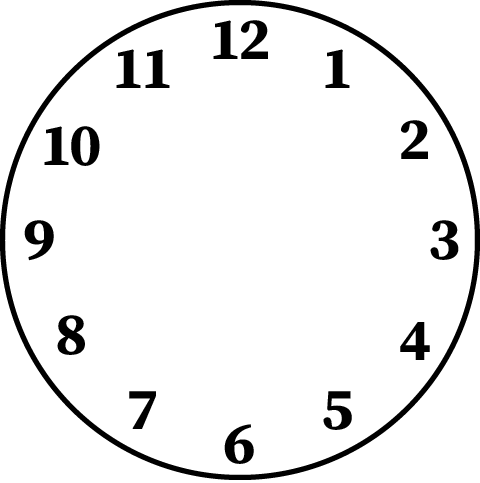
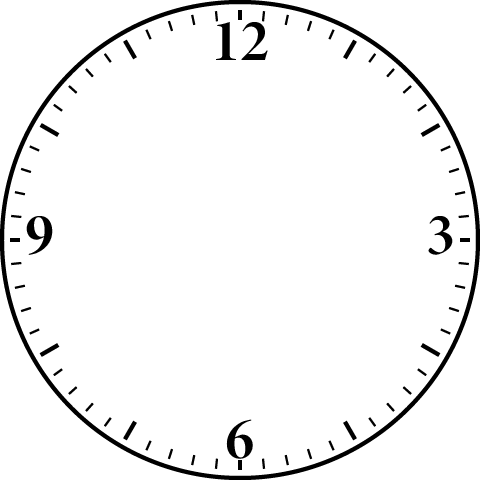
秒針と分針まで

diff --git a/index.html b/index.html
@@ -14,13 +14,24 @@
             <span id="now"></span>
         </h1>
         <div id="plate">
-            <div id="hour">
-                <figure>
-                    <img src="images/short.png" alt="">
-                </figure>
-            </div>
-            <div id="minute"><img src="images/long.png" alt="分"></div>
-            <div id="second"></div>
+            <figure id="hour">
+                <picture>
+                    <source srcset="images/short@2x.webp" type="image/webp">
+                    <img src="images/short.png" srcset="images/short.png 1x,images/short@2x.png 2x" alt="" width="480" height="480">
+                </picture>
+            </figure>
+            <figure id="minute">
+                <picture>
+                    <source srcset="images/long@2x.webp" type="image/webp">
+                    <img src="images/long.png" srcset="images/long.png 1x,images/long@2x.png 2x" alt="" width="480" height="480">
+                </picture>
+            </figure>
+            <figure id="second">
+                <picture>
+                    <source srcset="images/sec@2x.webp" type="image/webp">
+                    <img src="images/sec.png" srcset="images/sec.png 1x,images/sec@2x.png 2x" alt="" width="480" height="480">
+                </picture>
+            </figure>
         </div>
     </div>
     <script>
@@ -28,31 +39,26 @@
         const hour = document.querySelector('#hour');
         const minute = document.querySelector('#minute');
         const second = document.querySelector('#second');
+        const rotate = 360 / 60;
         const time = () => {
             const now = new Date();
-            const hours = now.getHours();
-            const minutes = now.getMinutes();
-            const seconds = now.getSeconds();
+            const hours = rotate * /*now.getHours()*/1;
+            const minutes = rotate * now.getMinutes();
+            const seconds = rotate * now.getSeconds();
             hour.style.transform = `rotate(${hours}deg)`
             minute.style.transform = `rotate(${minutes}deg)`
 
-            console.log(now);
-            console.log(hours);
-            console.log(minutes);
-            console.log(seconds);
-            //console.log(Math.floor(360 / seconds));
-
             currentTime(now)
-            //minutesMove(minutes)
-            //secondsMove(seconds)
+            minutesMove(minutes)
+            secondsMove(seconds)
         }
 
-        //const minutesMove = (minutes) => {
-        //return minute.style.transform = `rotate(${minutes}deg)`
-        //}
-        //const secondsMove = (seconds) => {
-        //return second.style.transform = `rotate(${seconds}deg)`
-        //}
+        const minutesMove = (minutes) => {
+            return minute.style.transform = `rotate(${minutes}deg)`
+        }
+        const secondsMove = (seconds) => {
+            return second.style.transform = `rotate(${seconds}deg)`
+        }
         const currentTime = (now) => {
             return justTime.textContent = `${now}`
         }

diff --git a/css/style.css b/css/style.css
@@ -1,6 +1,11 @@
 * {
     max-width: 100%;
 }
+
+figure {
+    margin: auto;
+    padding: 0;
+}
 img {
     max-width: 100%;
     height: auto;
@@ -21,8 +26,9 @@ img {
     background: url(../images/plate.png) 0 0/cover no-repeat;
 }
 
-#hour,#minute {
+#hour,#minute, #second {
     position: absolute;
+    display: block;
     width: 100%;
     height: 100%;
     top: 0;
@@ -31,8 +37,16 @@ img {
     left: 0;
     text-align: center;
     transform-origin: center center;
+    z-index: 2;
+    border-radius: 100%;
+}
+
+#second {
+    z-index: 1;
 }
 
 #hour img,
-#minute img {
+#minute img,
+#second img {
+    border-radius: 100%;
 }
